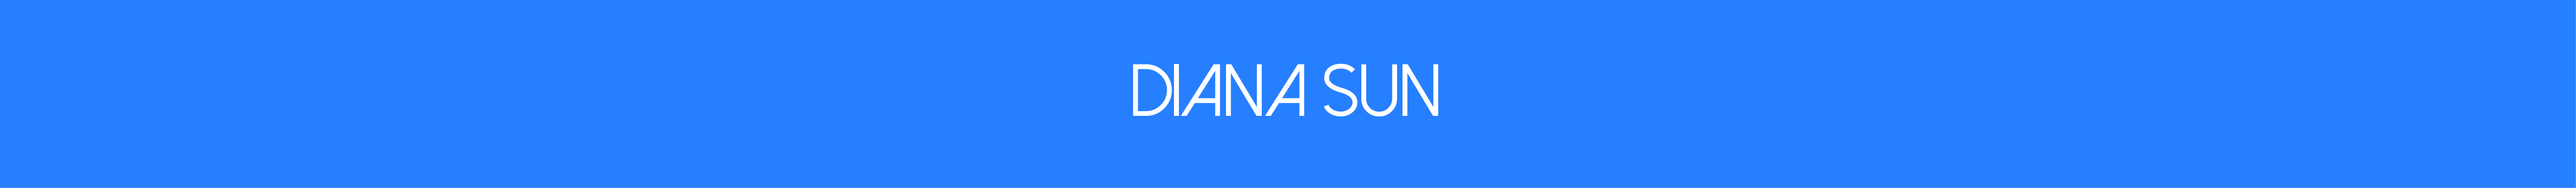
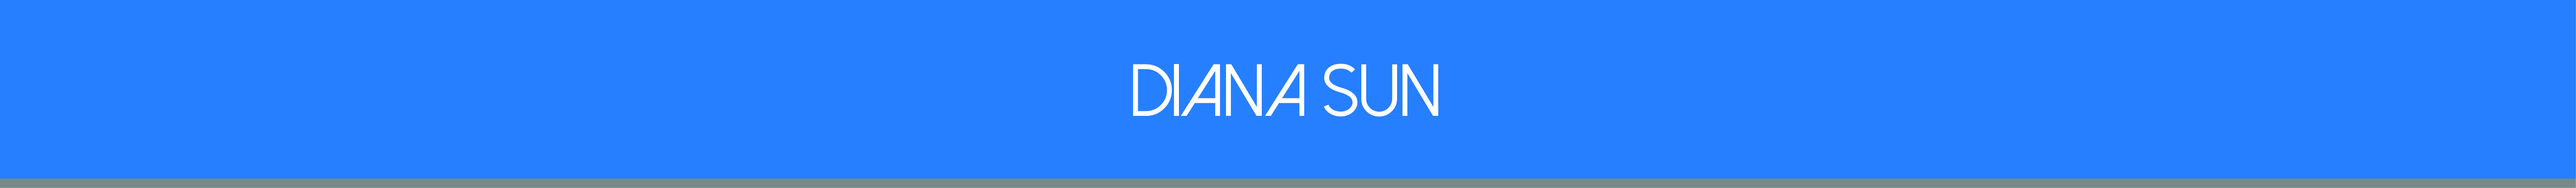
Project Pages

Changed region(s): [[0.0, 0.9353, 1.0, 1.0]]

diff --git a/about.html b/about.html
@@ -16,7 +16,7 @@
 
 <body>
 <div id = "header">
-<center><a href="index.html">Designer Diana Sun</a></center>
+<center><a href="index.html"><img src = "Header.jpg" height = 100></a></center>
 </div>
 
   <div class="nav">
@@ -33,14 +33,14 @@
 <div class = "centered">
 	<div class="row">
   
-  		<div class="col-md-3"><img src = "Me.jpg" width="400"></div>
-  		<div class="col-md-5 col-md-offset-3"><p></p><p>&nbsp;</p><p>&nbsp; &nbsp; &nbsp;Hi I'm Diana, an industrial design student at Carnegie Mellon. I learn by doing, I'm constantly looking for opportunities to apply user centered design in both the physical and virtual world. I love minimalistic and humble designs, pushing boundaries, designing for problems that people may not realize they have, and Chipotle.</p></div>
+  		<div class="col-md-3"><p>&nbsp;</p><img src = "Me.jpg" width="400"></div>
+  		<div class="col-md-5 col-md-offset-3"><p></p><p>&nbsp;</p><p>&nbsp; &nbsp; &nbsp;Hi I'm Diana, an industrial design student at Carnegie Mellon. An avid believer of learning by doing, I'm constantly looking for opportunities to apply user centered design in both the physical and virtual world.</p> <p>I love minimalistic and humble designs, pushing boundaries, designing for problems that people may not realize they have, and Chipotle.</p></div>
 
 	</div>
 </div>
 
 <div id = "footer">
-<center>footer goes here</center>
+<center><img src = "Footer.jpg" height="15"></center>
 </div>
 </body>
 

diff --git a/index.html b/index.html
@@ -18,8 +18,9 @@
 
 <body>
 <div id = "header">
-<center><a href="index.html">Designer Diana Sun</a></center>
+  <center><a href="index.html"><img src = "Header.jpg" height = "100"></a></center>
 </div>
+
   <div class="nav">
     <div class = "container">
     <div class = "row">
@@ -33,10 +34,10 @@
     </div>
   </div>
 
-<div class = "centered">
+<div class = "divider" height = "50"><p></p><p>&nbsp;</p></div>
 
-  <div class = "divider">
-  </div>
+
+<div class = "centered">
 
   <div class = "third">
   <p><a href="flowform.html"><img src = "images/Sun_Diana_Flowform_02.jpg" height="210" width="314"></a></p>
@@ -65,7 +66,7 @@
 </div>
 
 <div id = "footer">
-<center>footer goes here</center>
+<center><img src = "Footer.jpg" height="15"></center>
 </div>
 </body>
 

diff --git a/stylesheet.css b/stylesheet.css
@@ -2,15 +2,16 @@ body{ text-align:justify; color: #565656; font-family: 'Open Sans', sans-serif; 
 #header{
 	height:100px;
 	font-size:20px;
+	color: #1b75bb;
 }
 
 #footer{
-	height:100px;
+	height:15px;
 	font-size:12px;
 }
 .centered{
 	width: 960px;
-	height:650px;
+	height:550px;
 	margin-right: auto;
 	margin-left: auto;
 	font-family: 'Open Sans', sans-serif;

diff --git a/script.js b/script.js
@@ -1,4 +1,4 @@
-$(document).ready(function(){
+/*$(document).ready(function(){
 		$(".third").hover(
 			function() {
 				$(this).animate({
